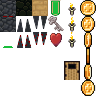
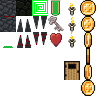
Améioration mode créatif sans caméra

Changed region(s): [[0.2679, 0.0, 0.4286, 0.1875]]

diff --git a/StrozorEngine/src/com/strozor/game/Crea.java b/StrozorEngine/src/com/strozor/game/Crea.java
@@ -12,12 +12,12 @@ import java.awt.event.MouseEvent;
 public class Crea extends AbstractGame {
 
     public static final int TS = 16;
+    public static Image creaMap;
 
-    private Image creaMap;
     private ImageTile objectsImage = new ImageTile("/objects.png", TS, TS);
 
     private int[] bloc;
-    private int[] elems = {1, 2, 3, 4, 5, 6, 7, 11, 12, 13};
+    private int[] elems = {0, 1, 2, 3, 4, 5, 6, 7, 11, 12, 13};
     private int selected = 0;
     private int sltColor = 0xff000000;
 
@@ -36,6 +36,7 @@ public class Crea extends AbstractGame {
             selected = (selected == 0) ? elems.length - 1 : selected - 1;
 
         switch(elems[selected]) {
+            case 0: sltColor = 0xff00ff00; break;
             case 1: sltColor = 0xff000000; break;
             case 2: sltColor = 0xffff648c; break;
             case 3: sltColor = 0xffff0000; break;
@@ -48,10 +49,10 @@ public class Crea extends AbstractGame {
             case 13: sltColor = 0xff999999; break;
         }
 
-        if(gc.getInput().isButton(MouseEvent.BUTTON1))
+        if(gc.getInput().isButtonDown(MouseEvent.BUTTON1))
             creaMap.setP(gc.getInput().getMouseX() / TS, gc.getInput().getMouseY() / TS, sltColor);
         else if(gc.getInput().isButton(MouseEvent.BUTTON3))
-            creaMap.setP(gc.getInput().getMouseX() / TS, gc.getInput().getMouseY() / TS, -1);
+            creaMap.setP(gc.getInput().getMouseX() / TS, gc.getInput().getMouseY() / TS, 0x00000000);
 
         updateMap();
     }
@@ -64,6 +65,7 @@ public class Crea extends AbstractGame {
                 int index = x + y * creaMap.getW();
                 if(bloc[index] != 1 || bloc[index] == -1) r.drawImageTile(objectsImage, x * TS, y * TS, 1, 0);
                 switch(bloc[index]) {
+                    case 0: r.drawImageTile(objectsImage, x * TS, y * TS, 2, 0); break;
                     case 1: r.drawImageTile(objectsImage, x * TS, y * TS, 0, 0); break;
                     case 2: r.drawImageTile(objectsImage, x * TS, y * TS, 3, 2); break;
                     case 3: r.drawImageTile(objectsImage, x * TS, y * TS, 1, 1); break;
@@ -81,7 +83,7 @@ public class Crea extends AbstractGame {
             }
         }
 
-        r.drawDock(gc.getWidth() / 2 - (elems.length * TS) / 2, gc.getHeight() - TS - 3, objectsImage, TS, elems, selected);
+        r.drawDock(gc.getWidth() / 2 - (elems.length * TS) / 2, gc.getHeight() - TS - 3, objectsImage, elems, selected);
     }
 
     public void updateMap() {
@@ -90,7 +92,7 @@ public class Crea extends AbstractGame {
             for(int x = 0; x < creaMap.getW(); x++) {
                 index = x + y * creaMap.getW();
                 switch(creaMap.getP()[index]) {
-                    case -1://empty
+                    case 0x00000000://empty
                         bloc[index] = -1;
                         break;
                     case 0xff00ff00://spawn

diff --git a/StrozorEngine/src/com/strozor/engine/GameRender.java b/StrozorEngine/src/com/strozor/engine/GameRender.java
@@ -2,6 +2,7 @@ package com.strozor.engine;
 
 import com.strozor.engine.gfx.*;
 import com.strozor.game.GameManager;
+import com.strozor.game.Crea;
 import com.strozor.game.GameObject;
 
 import java.awt.image.DataBufferInt;
@@ -315,14 +316,15 @@ public class GameRender {
         drawText("x"+obj.getKeys(), gm.TS, gm.TS * 3, 1, -1,-1);
     }
 
-    public void drawDock(int offX, int offY, ImageTile objectsImage, int ts, int[] elems, int selected) {
+    public void drawDock(int offX, int offY, ImageTile objectsImage, int[] elems, int selected) {
 
         int tileX = 0, tileY = 0;
 
-        drawRect(offX, offY, elems.length * ts + 1, ts + 1, 0xff999999);
+        drawRect(offX, offY, elems.length * Crea.TS + 1, Crea.TS + 1, 0xff999999);
 
         for(int i = 0; i < elems.length; i++) {
             switch(elems[i]) {
+                case 0: tileX = 2; tileY = 0; break;
                 case 1: tileX = 0; tileY = 0; break;
                 case 2: tileX = 3; tileY = 2; break;
                 case 3: tileX = 1; tileY = 1; break;
@@ -334,9 +336,25 @@ public class GameRender {
                 case 12: tileX = 0; tileY = 2; break;
                 case 13: tileX = 4; tileY = 4; break;
             }
-            drawImageTile(objectsImage, offX + 1 + ts * i, offY + 1, tileX, tileY);
+            drawImageTile(objectsImage, offX + 1 + Crea.TS * i, offY + 1, tileX, tileY);
         }
-        drawRect(offX + ts * selected, offY, ts + 1, ts + 1, 0xff00ff00);
+        drawRect(offX + Crea.TS * selected, offY, Crea.TS + 1, Crea.TS + 1, 0xff00ff00);
+
+        String sltText = "";
+        switch(elems[selected]) {
+            case 0: sltText = "spawn"; break;
+            case 1: sltText = "walls"; break;
+            case 2: sltText = "heart"; break;
+            case 3: sltText = "skewer top"; break;
+            case 4: sltText = "skewer down"; break;
+            case 5: sltText = "level key"; break;
+            case 6: sltText = "check point"; break;
+            case 7: sltText = "coin"; break;
+            case 11: sltText = "torch"; break;
+            case 12: sltText = "bouncing"; break;
+            case 13: sltText = "exit door"; break;
+        }
+        drawText(sltText, offX, offY, 1, -1, -1);
     }
 
     public void setCamX(int camX) {
